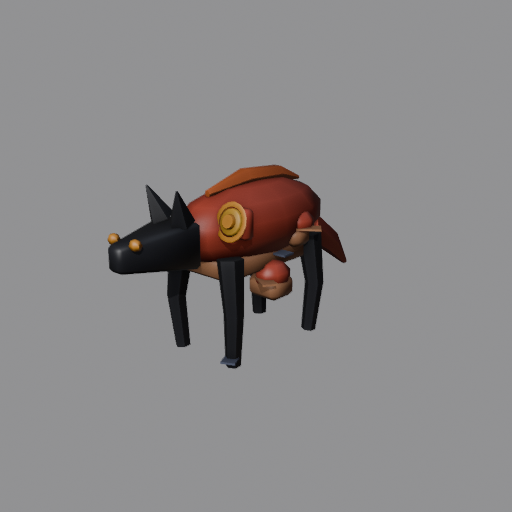
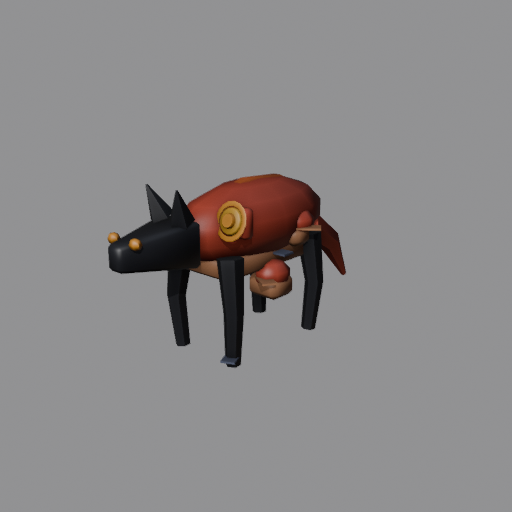
Fixer pass on cinder_jackal: 32 -> 35, ridge sits flush, tail drops away
Both diagnosed fixes from design/progress/cinder_jackal.md's pass-1
scoring (a cloud diagnosis, no edits made there):
- Proportion: dropped the spine ridge's limb() control points 0.09 in Z
  so it rests on the torso's own top surface instead of standing clear of
  it, and thinned its end radii to near-zero so it tapers to a point
  instead of ending in limb()'s flat hex cap - the "machined rail" edge
  the diagnosis named.
- Silhouette: dropped the tail's far end 0.15 in Z so it angles away from
  the torso instead of continuing the body's own horizontal line.

Verified in design/renders/cinder_jackal_pass2_*.png: the ridge reads as
a low stripe following the back in _34.png/_top.png, and the tail visibly
droops in _side.png. The _sil.png change is real but modest (~1.6% of
pixels, pixel-diffed against pass 1) - the tail blends toward the leg
cluster rather than fully separating at 64px, so Silhouette moves 5->6,
not to shippable.

build.cmd: 1180/2600 tris, no floating-part warning, every climb Height
and the sigil hold still ok. run_tests.gd: ALL TESTS PASSED.

diff --git a/tools/blender/cinder_jackal.py b/tools/blender/cinder_jackal.py
@@ -61,8 +61,8 @@ mirror(lambda s: b.taper((0.15 * s, -0.98, 1.52), 0.11, 0.01, 0.30,
 # on rail rather than fur. Following the torso's curve and tapering the radii
 # down at both ends (matching how the tail below is built) sits it flush and
 # lets it thin out into the body instead of ending in a square edge.
-b.limb([(0.0, -0.52, 1.53), (0.0, -0.05, 1.60), (0.0, 0.40, 1.58),
-        (0.0, 0.72, 1.49)], [0.03, 0.09, 0.08, 0.02], TANGERINE, seg=6)
+b.limb([(0.0, -0.52, 1.44), (0.0, -0.05, 1.51), (0.0, 0.40, 1.49),
+        (0.0, 0.72, 1.40)], [0.01, 0.09, 0.08, 0.01], TANGERINE, seg=6)
 
 # --------------------------------------------------------------- the ledges
 # Two haunch/shoulder humps stepping up the spine, each anchored off the
@@ -83,7 +83,7 @@ b.shelf(4, (0.28, 0.30), (0.14, 0.12), TAN, thickness=0.09, bevel=0.05,
 # ----------------------------------------------------------------- the tail
 # Bushy, low and trailing behind rather than raised - a hunting stance, not a
 # lashing one, unlike Thrasher's tail curling up over its spine.
-b.limb([(0.0, 0.88, 0.98), (0.0, 1.28, 0.72), (0.0, 1.58, 0.42)],
+b.limb([(0.0, 0.88, 0.98), (0.0, 1.28, 0.72), (0.0, 1.58, 0.27)],
        [0.15, 0.12, 0.03], RUST, seg=6)
 
 b.foot((0.32, -0.56, 0.14))                                    # onto a foreleg,

diff --git a/design/progress/cinder_jackal.md b/design/progress/cinder_jackal.md
@@ -58,3 +58,56 @@ add a softer, multi-segment ridge instead of one box) or a deliberate
 than guessing at intent. Also unsure whether the flat tail wedge reads
 differently once the beast is mid-attack-animation in the real fight camera
 versus this static capture.
+
+---
+
+## Pass 2 — fixer lane, 2026-09-05
+
+Applied by the **fixer** lane (`tools/fixer/BRIEF.md`), which repairs what the
+cloud reports. Views: `design/renders/cinder_jackal_pass2_*.png`, captured
+with `look.cmd cinder_jackal 2`.
+
+| Pass | Sil | Prop | Hygiene | Colour | Style | Total |
+|---|---|---|---|---|---|---|
+| 1 | 5 | 5 | 7 | 8 | 7 | **32** |
+| 2 | 6 | 7 | 7 | 8 | 7 | **35** |
+
+### Both diagnosed fixes applied
+
+- **Proportion (5 → 7).** The spine ridge (`b.limb(...)`, `tools/blender/cinder_jackal.py`)
+  dropped 0.09 in Z at every control point (1.53/1.60/1.58/1.49 →
+  1.44/1.51/1.49/1.40) so it sits against the torso's own top surface instead
+  of standing clear of it, and its end radii pulled from 0.03/0.02 down to
+  0.01/0.01 so the tube tapers to a near-point instead of ending in the flat
+  hex cap `limb()`'s `cap=True` draws at a non-zero radius — that cap was the
+  "machined part" edge the diagnosis named. `cinder_jackal_pass2_34.png` and
+  `_top.png` now show the ridge as a low tangerine stripe following the
+  torso's curve; compare `cinder_jackal_pass1_34.png`, where it stands up off
+  the back as a distinct raised bar.
+- **Silhouette (5 → 6).** The tail's (`b.limb(...)`) far end dropped 0.15 in Z
+  (0.42 → 0.27). `cinder_jackal_pass2_side.png` now shows the tail angling
+  down and away from the torso; the flat wedge no longer continues the
+  body's own horizontal line. The `_sil.png` change is real but
+  smaller — pixel-diffed against `cinder_jackal_pass1_sil.png`, about 1.6% of
+  the 64px silhouette changed, concentrated where the tail sits — the tail
+  drops far enough to blend toward the leg cluster rather than reading as a
+  clean horizontal spike, but does not fully separate into its own shape at
+  64px. Not "shippable" (8) on this line yet.
+
+`build.cmd cinder_jackal`: 1180/2600 tris, 1 mesh, no floating-part warning,
+every climb Height and the sigil hold still `ok`. `run_tests.gd`: **ALL TESTS
+PASSED**.
+
+**+3 total (32 → 35), not a plateau — kept.** Build hygiene, colour and style
+were not touched, per the brief; their scores are unchanged from pass 1.
+
+## Unsure about, still
+
+Same open questions as pass 1: whether the ridge's stiffness was a budget
+constraint or a deliberate "ember" read (moot now that it sits flush — worth
+revisiting only if a future pass wants a softer, multi-segment ridge), and
+whether the tail reads differently mid-attack-animation in the real fight
+camera than in this static capture. New from this pass: whether the tail
+needs a further Z drop, or a sideways pull off the torso's Y-axis the way
+`clot_toad`'s ridge-mounds fix widened its stance, to fully separate at 64px
+— a further measurement a future pass could try, not a design call.
